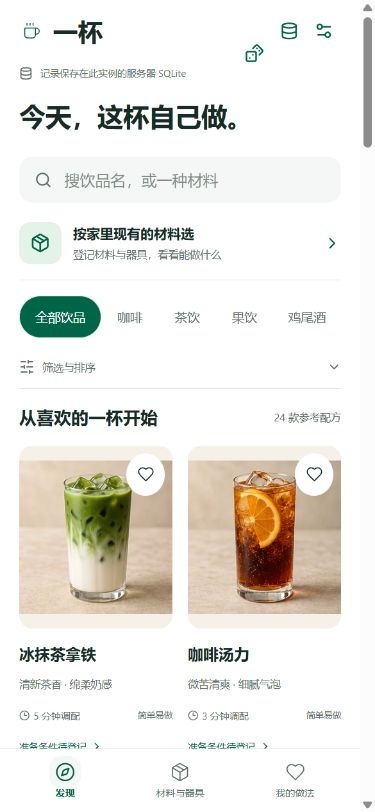
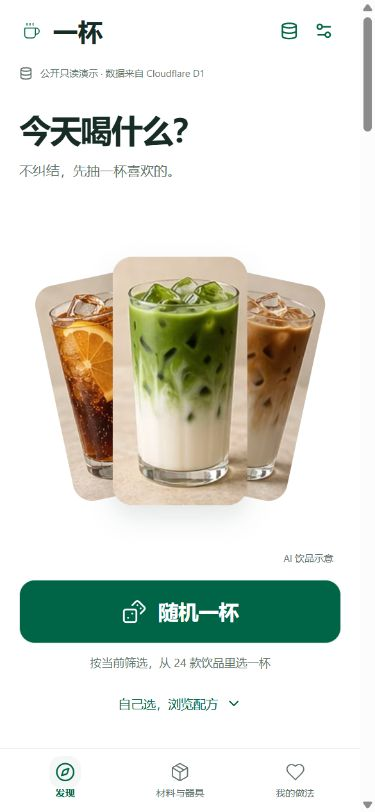
feat: make random drink selection the mobile first screen

diff --git a/src/main.tsx b/src/main.tsx
@@ -25,6 +25,8 @@ import {recipeReadiness,matchesReadiness} from './readiness';
 import './making.css';
 import './ui-v3.css';
 import './frame.css';
+import './random-intro.css';
+import {MobileRandomIntro} from './components/MobileRandomIntro';
 import {referenceTime} from './content';
 import {PersonalLibrary} from './components/PersonalLibrary';
 import {ServiceInfo} from './components/ServiceInfo';
@@ -43,7 +45,7 @@ function App(){
   const [notice,setNotice]=useState('');const [wideScreen,setWideScreen]=useState(()=>matchMedia('(min-width: 801px)').matches);
   useEffect(()=>{const media=matchMedia('(min-width: 801px)');const change=()=>setWideScreen(media.matches);media.addEventListener('change',change);return()=>media.removeEventListener('change',change);},[]);
   const {data,ready,sync,readOnly,storageLabel,persist,retrySave,resolveConflict}=useWorkspace(setNotice);
-  const catalog=recipes;
+  const catalog=recipes;const catalogRef=useRef<HTMLElement>(null);
   const [page,setPage]=useState<Page>('discover');
   const [category,setCategory]=useState<Category>('all');
   const [query,setQuery]=useState('');const [stockQuery,setStockQuery]=useState('');
@@ -109,11 +111,13 @@ function App(){
     {readOnly&&<aside className="demo-mode-note">公开只读演示：可浏览配方、调整用量并制作。保存个人配方、库存和合集请<a href="https://github.com/Murphy-404/OneCup#readme" target="_blank" rel="noreferrer">部署自己的实例 ↗</a>。</aside>}
     <main className="main-content" key={page}>
       {page==='discover'&&<>
+        <MobileRandomIntro count={filtered.length} onDraw={drawRandom} onBrowse={()=>{catalogRef.current?.scrollIntoView({block:'start',behavior:matchMedia('(prefers-reduced-motion: reduce)').matches?'instant':'smooth'});catalogRef.current?.focus({preventScroll:true});}}/>
+        {readOnly&&<details className="mobile-demo-note"><summary>公开演示 · 关于保存个人数据</summary><p>可浏览配方、调整用量并制作。保存个人配方、库存和合集请<a href="https://github.com/Murphy-404/OneCup#readme" target="_blank" rel="noreferrer">部署自己的实例 ↗</a>。</p></details>}
         <section className="utility-intro"><div><h1>今天，这杯自己做。</h1><p>找配方，也找到适合手边材料的做法。</p></div><div className="intro-side"><button className="text-button random-entry" onClick={drawRandom}><Dices size={18}/>随机一杯</button><button className="prep-trigger" onClick={()=>setPlanOpen(true)}><ClipboardList size={17}/>备料清单{data.plan.length>0&&<span>{data.plan.length}</span>}</button></div></section>
       </>}
       {page==='favorites'&&<section className="page-intro"><p className="eyebrow">YOUR LITTLE COLLECTION</p><h1>喜欢的，留给下一杯。</h1><p className="intro-copy">收藏心动的配方，也留住你亲手调出的味道。</p><div className="segmented"><button className={favoriteView==='recipes'?'selected':''} onClick={()=>setFavoriteView('recipes')}>收藏配方 <span>{data.favorites.length}</span></button><button className={favoriteView==='versions'?'selected':''} onClick={()=>setFavoriteView('versions')}>我的做法 <span>{data.versions.length}</span></button><button className={favoriteView==='library'?'selected':''} onClick={()=>setFavoriteView('library')}>自建与合集 <span>{data.customRecipes.length}</span></button></div></section>}
       {(page==='discover'||page==='favorites'&&favoriteView==='recipes')&&<>
-        <section className="catalog-controls" aria-label="饮品筛选"><div className="catalog-heading"><div><h2>{page==='favorites'?'我的收藏':'浏览配方'}<span>{filtered.length} 款饮品</span></h2></div><label className="search-box"><Search size={18}/><input aria-label="搜索饮品或材料" placeholder="搜饮品名，或一种材料" value={query} onChange={e=>setQuery(e.target.value)}/>{query&&<button className="small-icon" aria-label="清空搜索" onClick={()=>setQuery('')}><X size={15}/></button>}<kbd>/</kbd></label></div>
+        <section ref={catalogRef} tabIndex={-1} className="catalog-controls" aria-label="饮品筛选"><div className="catalog-heading"><div><h2>{page==='favorites'?'我的收藏':'浏览配方'}<span>{filtered.length} 款饮品</span></h2></div><label className="search-box"><Search size={18}/><input aria-label="搜索饮品或材料" placeholder="搜饮品名，或一种材料" value={query} onChange={e=>setQuery(e.target.value)}/>{query&&<button className="small-icon" aria-label="清空搜索" onClick={()=>setQuery('')}><X size={15}/></button>}<kbd>/</kbd></label></div>
           {page==='discover'&&<button className="pantry-entry" onClick={()=>navigate('stock')}><span className="pantry-icon"><Package size={21}/></span><span><strong>按家里现有的材料选</strong><small>{stockCount?`已登记 ${stockCount} 种可用材料，看看能做什么`:'登记材料与器具，看看能做什么'}</small></span><ChevronRight size={19}/></button>}
           <div className="filter-bar"><div className="category-tabs" role="group" aria-label="饮品类别">{categories.map(c=><button key={c.id} aria-pressed={category===c.id} className={category===c.id?'selected':''} onClick={()=>setCategory(c.id)}>{c.id==='all'?<CupSoda size={16}/>:c.id==='coffee'?<Coffee size={16}/>:c.id==='tea'?<Leaf size={16}/>:c.id==='fruit'?<CupSoda size={16}/>:<Wine size={16}/>}<span>{c.name}</span></button>)}</div><label className="toggle-label"><input type="checkbox" role="switch" checked={stockFilter} onChange={e=>{setStockFilter(e.target.checked);setNearReady(false);}}/><span className="switch"/>只看我有的材料</label></div>
           <details className="advanced-filters" open={wideScreen&&activeFilters>0||undefined}><summary><SlidersHorizontal size={16}/>筛选与排序{activeFilters>0&&<span>{activeFilters}</span>}<ChevronDown size={15}/></summary><div className="advanced-content"><div className="feature-filters"><label><input type="checkbox" checked={onlyEquipped} onChange={e=>setOnlyEquipped(e.target.checked)}/>只看器具已具备（含替代）</label><label>准备路径 <select aria-label="准备路径筛选" value={solutionFilter} onChange={e=>setSolutionFilter(e.target.value)}><option value="all">不限</option><option value="direct">原方材料器具齐备</option><option value="self">自制材料器具齐备</option><option value="approx">近似材料器具齐备</option><option value="needs">仍待准备或登记</option></select></label><small>路径按已登记材料和器具判断；自制须实测、近似须主动采用，数量仍需确认。</small></div><div className="list-tools"><button className="text-button" onClick={()=>setCoffeeOpen(true)}><Coffee size={16}/>咖啡豆与萃取</button><label>排序 <select aria-label="配方排序" value={sortBy} onChange={e=>setSortBy(e.target.value)}><option value="default">默认顺序</option><option value="time">调配时间</option><option value="ready">准备条件优先</option></select></label></div><div className="practical-filters" role="group" aria-label="实用筛选"><button aria-pressed={quickOnly} onClick={()=>setQuickOnly(v=>!v)}><Clock3 size={14}/>调配≤5分钟</button><button aria-pressed={nearReady} onClick={()=>{setNearReady(v=>!v);setStockFilter(false);}}><Package size={14}/>只差一种材料</button><button aria-pressed={useLow} onClick={()=>setUseLow(v=>!v)}><Leaf size={14}/>用掉快用完的</button>{(quickOnly||nearReady||useLow)&&<button className="clear-filters" onClick={()=>{setQuickOnly(false);setNearReady(false);setUseLow(false);}}>重置快捷筛选<X size={13}/></button>}<button className="plan-link" onClick={()=>setPlanOpen(true)}><ClipboardList size={14}/>备料清单 {data.plan.length>0&&data.plan.length}</button></div><div className="filter-caption"><span>{stockFilter?<><Package size={14}/>材料筛选已开启 · 按必需材料种类匹配，不检查数量</>:<>不必准备齐全，先找一杯喜欢的。</>}</span><label className="alcohol-checkbox"><input type="checkbox" checked={noAlcohol} onChange={e=>setNoAlcohol(e.target.checked)}/>只看不含酒精</label></div></div></details>

diff --git a/src/random-intro.css b/src/random-intro.css
@@ -1,0 +1,33 @@
+/* On phones, choosing a drink is the first task; the catalogue follows below. */
+.mobile-random-intro,.mobile-demo-note{display:none}
+@media(max-width:800px){
+ .utility-intro{display:none}
+ .demo-mode-note{display:none}
+ .mobile-random-intro{display:grid;grid-template-rows:auto minmax(96px,1fr) auto;gap:20px;min-height:calc(100svh - 172px - env(safe-area-inset-top,0px) - env(safe-area-inset-bottom,0px));padding:12px 0 20px;margin-bottom:28px;box-sizing:border-box}
+ .mobile-random-heading h1{font-size:clamp(30px,8.5vw,40px);font-weight:700;letter-spacing:-.04em;line-height:1.25;margin:0;color:var(--ink)}
+ .mobile-random-heading p{font-size:14px;line-height:1.8;margin:10px 0 0;color:var(--muted)}
+ .mobile-random-visual{position:relative;min-height:96px;margin:0 8px;isolation:isolate}
+ .random-drink{position:absolute;left:50%;top:50%;object-fit:cover;border-radius:20px;height:min(100%,258px);width:44%;max-width:164px;background:var(--photo)}
+ .random-drink-left{transform:translate(-112%,-48%) rotate(-12deg);height:min(86%,228px);width:37%;filter:saturate(.88)}
+ .random-drink-right{transform:translate(12%,-48%) rotate(12deg);height:min(86%,228px);width:37%;filter:saturate(.88)}
+ .random-drink-center{transform:translate(-50%,-50%);box-shadow:0 12px 28px #183a2820}
+ .mobile-random-visual>span{position:absolute;right:0;bottom:-4px;font-size:10px;color:var(--muted)}
+ .mobile-random-actions{display:grid;gap:10px;text-align:center}
+ .mobile-random-draw{width:100%;min-height:66px;border-radius:16px;font-size:21px;font-weight:650;gap:12px;justify-content:center}
+ .mobile-random-draw svg{transition:transform .2s ease}.mobile-random-draw:active svg{transform:rotate(24deg)}
+ .mobile-random-hint{font-size:12px;line-height:1.7;color:var(--muted);margin:0}
+ .mobile-random-browse{display:flex;align-items:center;justify-content:center;gap:8px;min-height:44px;background:none;border:0;color:var(--primary);font:inherit;font-size:13px}
+ .mobile-random-browse:focus-visible,.mobile-random-draw:focus-visible{outline:3px solid var(--primary);outline-offset:4px}
+ .mobile-demo-note{display:block;border-bottom:1px solid var(--line);margin:0 0 20px;font-size:12px;line-height:1.8;color:var(--muted)}
+ .mobile-demo-note summary{min-height:44px;cursor:pointer;color:var(--primary);padding:10px 0}.mobile-demo-note p{margin:0 0 16px}.mobile-demo-note a{text-decoration:underline}
+ .catalog-controls{scroll-margin-top:16px}.catalog-controls:focus{outline:none}
+}
+@media(max-width:800px) and (max-height:650px){
+ .mobile-random-intro{gap:12px;padding-top:4px;margin-bottom:20px;min-height:calc(100svh - 166px)}
+ .mobile-random-heading h1{font-size:30px}.mobile-random-heading p{margin-top:5px;font-size:13px}.mobile-random-draw{min-height:58px;font-size:20px}.mobile-random-actions{gap:6px}.mobile-random-visual>span{bottom:0}
+}
+@media(max-width:800px) and (orientation:landscape) and (max-height:500px){
+ .mobile-random-intro{grid-template-columns:1fr 1fr;grid-template-rows:auto auto;min-height:0;gap:12px 24px;padding:12px 0 24px}
+ .mobile-random-visual{grid-column:2;grid-row:1/3;min-height:180px}.mobile-random-actions{grid-column:1}.mobile-random-heading h1{font-size:30px}.mobile-random-browse{min-height:44px}
+}
+@media(prefers-reduced-motion:reduce){.mobile-random-draw svg{transition:none}.mobile-random-draw:active svg{transform:none}}

diff --git a/src/components/MobileRandomIntro.tsx b/src/components/MobileRandomIntro.tsx
@@ -1,0 +1,18 @@
+import {ChevronDown,Dices} from 'lucide-react';
+
+export function MobileRandomIntro({count,onDraw,onBrowse}:{count:number;onDraw:()=>void;onBrowse:()=>void}){
+ return <section className="mobile-random-intro" aria-labelledby="mobile-random-title">
+  <div className="mobile-random-heading"><h1 id="mobile-random-title">今天喝什么？</h1><p>不纠结，先抽一杯喜欢的。</p></div>
+  <div className="mobile-random-visual" aria-hidden="true">
+   <img className="random-drink random-drink-left" src="/images/recipes/espresso-tonic.webp" alt="" width="240" height="320"/>
+   <img className="random-drink random-drink-right" src="/images/recipes/oat-latte.webp" alt="" width="240" height="320"/>
+   <img className="random-drink random-drink-center" src="/images/recipes/matcha.webp" alt="" width="240" height="320"/>
+   <span>AI 饮品示意</span>
+  </div>
+  <div className="mobile-random-actions">
+   <button className="primary-button mobile-random-draw" onClick={onDraw}><Dices size={26} strokeWidth={1.7}/>随机一杯</button>
+   <p className="mobile-random-hint">{count?`按当前筛选，从 ${count} 款饮品里选一杯`:'当前筛选没有候选，可向下调整条件'}</p>
+   <button className="mobile-random-browse" onClick={onBrowse}>自己选，浏览配方<ChevronDown size={17}/></button>
+  </div>
+ </section>;
+}

diff --git a/docs/product/PRD.md b/docs/product/PRD.md
@@ -42,7 +42,7 @@ Node.js + SQLite 或 Docker Compose 自托管；也支持 Cloudflare Workers + D
 
 ## 4. 信息架构与界面
 
-- **发现**：顶部导航、居中配方卡片网格、搜索、分类、主动随机，高级筛选收起。
+- **发现**：小屏首屏为大号“随机一杯”引导，主按钮首屏可见；“自己选，浏览配方”进入下方目录。大屏保留顶部导航、居中配方卡片网格、搜索和分类，高级筛选收起。
 - **我的材料**：材料、器具、状态与咖啡参数入口。未登记与没有分开，水和冰不默认有。
 - **我的做法**：收藏、私人自建/改编配方、私人合集；不出现作者主页或发布按钮。
 - **配方详情**：完整图、规格、用量、器具、缺料路径、步骤、验证状态和私人编辑入口。
